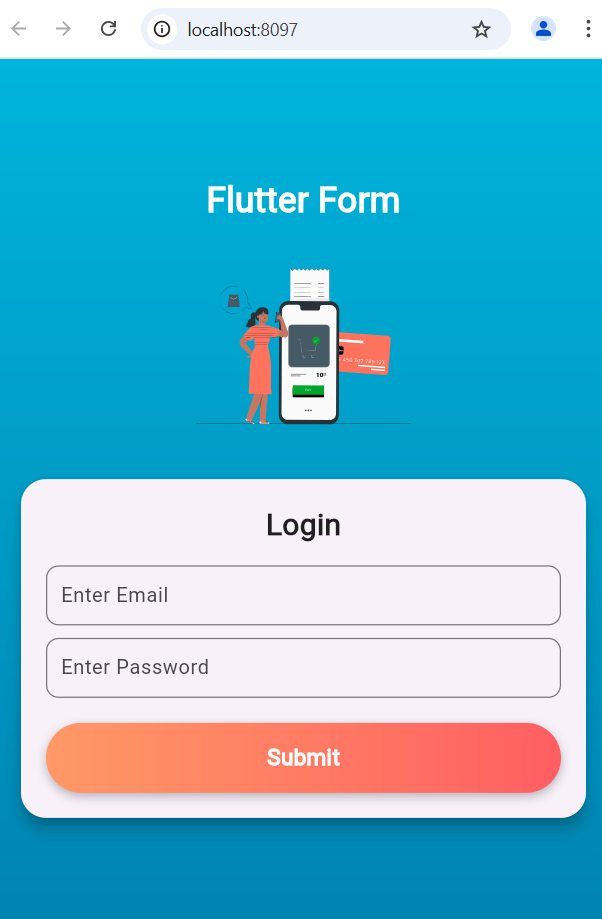
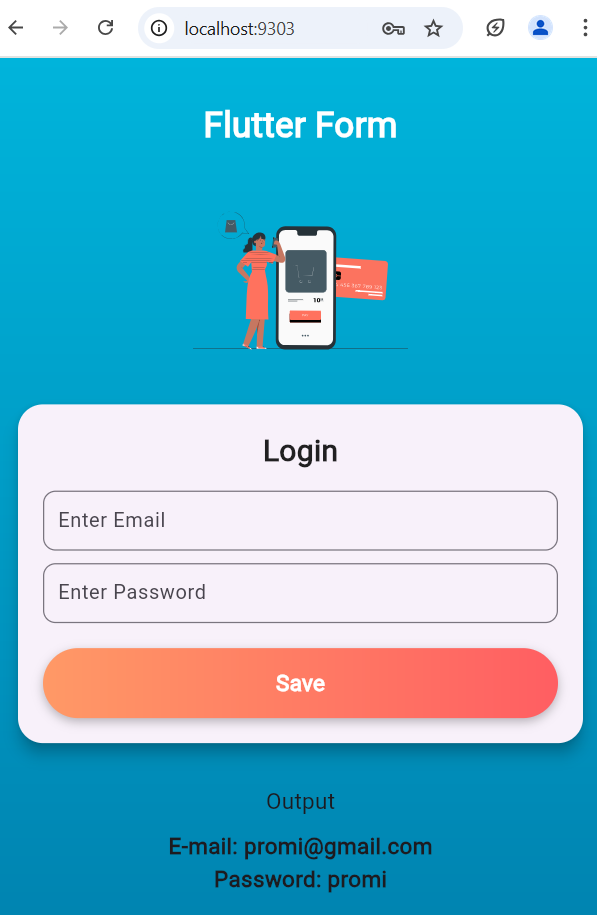
Initial commit

diff --git a/lib/screens/home_screen.dart b/lib/screens/home_screen.dart
@@ -1,6 +1,5 @@
 import 'package:flutter/material.dart';
 import '../widgets/input_field.dart';
-import '../widgets/submit_button.dart';
 import '../widgets/mobile_animation.dart';
 import '../utils/storage.dart';
 
@@ -15,6 +14,9 @@ class _HomeScreenState extends State<HomeScreen> {
   final TextEditingController emailController = TextEditingController();
   final TextEditingController passwordController = TextEditingController();
 
+  String savedEmail = "";
+  String savedPassword = "";
+
   void _saveData() {
     String email = emailController.text.trim();
     String password = passwordController.text.trim();
@@ -26,16 +28,13 @@ class _HomeScreenState extends State<HomeScreen> {
           backgroundColor: Colors.red,
         ),
       );
-      return; // Stop execution if fields are empty
+      return;
     }
 
-    Storage.saveCredentials(email, password);
-    ScaffoldMessenger.of(context).showSnackBar(
-      const SnackBar(
-        content: Text("Credentials Saved Successfully!"),
-        backgroundColor: Colors.green,
-      ),
-    );
+    setState(() {
+      savedEmail = email;
+      savedPassword = password;
+    });
 
     emailController.clear();
     passwordController.clear();
@@ -47,7 +46,7 @@ class _HomeScreenState extends State<HomeScreen> {
       body: Container(
         decoration: const BoxDecoration(
           gradient: LinearGradient(
-            colors: [Color(0xFF00B4DB), Color(0xFF0083B0)], // Attractive Blue Gradient
+            colors: [Color(0xFF00B4DB), Color(0xFF0083B0)],
             begin: Alignment.topCenter,
             end: Alignment.bottomCenter,
           ),
@@ -58,7 +57,7 @@ class _HomeScreenState extends State<HomeScreen> {
             child: Column(
               mainAxisAlignment: MainAxisAlignment.center,
               children: [
-                // Title at the Top
+                // Title
                 const Text(
                   "Flutter Form",
                   style: TextStyle(
@@ -69,11 +68,11 @@ class _HomeScreenState extends State<HomeScreen> {
                 ),
                 const SizedBox(height: 20),
 
-                // Animation Below Title
+                // Animation
                 const MobileAnimation(),
                 const SizedBox(height: 30),
 
-                // Card for Input Fields
+                // Input Card
                 Card(
                   elevation: 10,
                   shape: RoundedRectangleBorder(borderRadius: BorderRadius.circular(20)),
@@ -91,7 +90,7 @@ class _HomeScreenState extends State<HomeScreen> {
                         InputField(controller: passwordController, hintText: "Enter Password", isPassword: true),
                         const SizedBox(height: 20),
 
-                        // Submit Button with Gradient Effect
+                        // Save Button
                         GestureDetector(
                           onTap: _saveData,
                           child: Container(
@@ -100,7 +99,7 @@ class _HomeScreenState extends State<HomeScreen> {
                             decoration: BoxDecoration(
                               borderRadius: BorderRadius.circular(30),
                               gradient: const LinearGradient(
-                                colors: [Color(0xFFff9966), Color(0xFFff5e62)], // Orange Gradient
+                                colors: [Color(0xFFff9966), Color(0xFFff5e62)],
                               ),
                               boxShadow: [
                                 BoxShadow(
@@ -112,7 +111,7 @@ class _HomeScreenState extends State<HomeScreen> {
                             ),
                             child: const Center(
                               child: Text(
-                                "Submit",
+                                "Save",
                                 style: TextStyle(fontSize: 18, color: Colors.white, fontWeight: FontWeight.bold),
                               ),
                             ),
@@ -122,6 +121,19 @@ class _HomeScreenState extends State<HomeScreen> {
                     ),
                   ),
                 ),
+                const SizedBox(height: 30),
+
+                // Output Section
+                const Text(
+                  "Output",
+                  style: TextStyle(fontSize: 18, fontWeight: FontWeight.w500),
+                ),
+
+                if (savedEmail.isNotEmpty && savedPassword.isNotEmpty) ...[
+                  const SizedBox(height: 10),
+                  Text("E-mail: $savedEmail", style: const TextStyle(fontSize: 18, fontWeight: FontWeight.bold)),
+                  Text("Password: $savedPassword", style: const TextStyle(fontSize: 18, fontWeight: FontWeight.bold)),
+                ],
               ],
             ),
           ),
